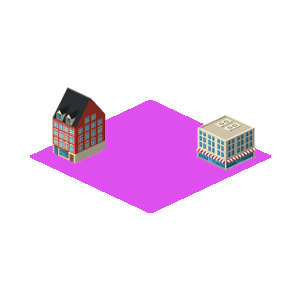
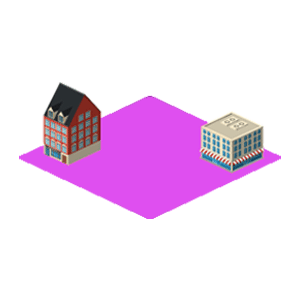
infomap_func finish
เหลือแก้รูป กับ ตกแต่งพื้นที่ให้สวย

Changed region(s): [[0.06, 0.27, 0.96, 0.75]]

diff --git a/Front-endSection/src/pages/home/home.js b/Front-endSection/src/pages/home/home.js
@@ -15,8 +15,11 @@ import rnp from '../../img/rnp.png';
 import jinda from '../../img/jinda.png';
 import nikom from '../../img/nikom.png';
 import kmitl from '../../img/kmitl.png';
-import shadow_s from '../../img/shadow.png';
-import shadow_L from '../../img/shadow-nikom.png';
+import shadow_fbt from '../../img/shadow-fbt.png';
+import shadow_rnp from '../../img/shadow-rnp.png';
+import shadow_keki from '../../img/shadow-keki.png';
+import shadow_jinda from '../../img/shadow-jinda.png';
+import shadow_nikom from '../../img/shadow-nikom.png';
 
 function Home() {
     const [activeBoxPrice, setActiveBoxPrice] = useState(false);
@@ -76,35 +79,25 @@ function Home() {
                 <div className="main_kmitl">
                     <img alt="" src={kmitl}></img>
                 </div>
-                <div className="zone_fbt_shad">
-                    <img alt="" src={shadow_s}></img>
+                <div className=" map-el zone_fbt">
+                    <img className="map-el-shadow zone_fbt_shd" alt="" src={shadow_fbt}></img>
+                    <img className="map-el-img zone_fbt_img" alt="" src={fbt}></img>
                     </div>
-                <div className="zone_fbt">
-                    <img alt="" src={fbt}></img>
+                <div className=" map-el zone_keki">
+                    <img className="map-el-shadow zone_keki_shd" alt="" src={shadow_keki}></img>
+                    <img className="map-el-img zone_keki_img" alt="" src={keki}></img>
                     </div>
-                <div className="zone_keki_shad">
-                    <img alt="" src={shadow_s}></img>
+                <div className=" map-el zone_rnp">
+                    <img className="map-el-shadow zone_rnp_shd" alt="" src={shadow_rnp}></img>
+                    <img className="map-el-img zone_rnp_img" alt="" src={rnp}></img>
                     </div>
-                <div className="zone_keki">
-                    <img alt="" src={keki}></img>
+                <div className=" map-el zone_jinda">
+                    <img className="map-el-shadow zone_jinda_shd" alt="" src={shadow_jinda}></img>
+                    <img className="map-el-img zone_jinda_img" alt="" src={jinda}></img>
                     </div>
-                <div className="zone_rnp_shad">
-                    <img alt="" src={shadow_s}></img>
-                    </div>
-                <div className="zone_rnp">
-                    <img alt="" src={rnp}></img>
-                    </div>
-                <div className="zone_jinda_shad">
-                    <img alt="" src={shadow_s}></img>
-                    </div>
-                <div className="zone_jinda">
-                    <img alt="" src={jinda}></img>
-                    </div>
-                <div className="zone_nikom_shad">
-                    <img alt="" src={shadow_L}></img>
-                    </div>
-                <div className="zone_nikom">
-                    <img alt="" src={nikom}></img>
+                <div className=" map-el zone_nikom">
+                    <img className="map-el-shadow zone_nikom_shd"alt="" src={shadow_nikom}></img>
+                    <img className="map-el-img zone_nikom_img"alt="" src={nikom}></img>
                     </div>
             </div>
             <div className="dom_list d-flex">

diff --git a/Front-endSection/src/pages/home/home.css b/Front-endSection/src/pages/home/home.css
@@ -130,6 +130,8 @@
     color: #325679;
 }
 
+/*--------------------------------*/
+
 .main_kmitl{
     position: absolute;
     left: calc(45vw);
@@ -140,82 +142,43 @@
     left: calc(55vw);
     top: calc(23vw);
 }
-.zone_fbt_shad{
-    position: absolute;
-    left: calc(56vw);
-    top: calc(24vw);
-}
 .zone_keki{
     position: absolute;
     left: calc(25vw);
     top: calc(6vw);
-}
-.zone_keki_shad{
-    position: absolute;
-    left: calc(26.5vw);
-    top: calc(8vw);
 }
 .zone_rnp{
     position: absolute;
     left: calc(9vw);
     top: calc(5vw);
 }
-.zone_rnp_shad{
-    position: absolute;
-    left: calc(10vw);
-    top: calc(6vw);
-}
 .zone_jinda{
     position: absolute;
     left: calc(29vw);
     top: calc(22vw);
-}
-.zone_jinda_shad{
-    position: absolute;
-    left: calc(30.5vw);
-    top: calc(24vw);
 }
 .zone_nikom{
     position: absolute;
     left: calc(75vw);
     top: calc(2vw);
 }
-.zone_nikom_shad{
-    position: absolute;
-    left: calc(75.5vw);
-    top: calc(4.5vw);
-}
 
 .main_kmitl img{
     width: 25vw;
 }
-.zone_fbt img{
-    width: 15vw;
+
+.map-el-shadow{
+    position: relative;
+    opacity: .7;
+    width: 15VW;
 }
-.zone_fbt_shad img{
-    width: 13vw;
+.map-el-img{
+    position: absolute;
+    width: 15.2vw;
+    left: 0;
+    top: -1px;
+    transition: .2s;
 }
-.zone_keki img{
-    width: 15vw;
-}
-.zone_keki_shad img{
-    width: 12vw;
-}
-.zone_rnp img{
-    width: 15vw;
-}
-.zone_rnp_shad img{
-    width: 13vw;
-}
-.zone_jinda img{
-    width: 16vw;
-}
-.zone_jinda_shad img{
-    width: 13vw;
-}
-.zone_nikom img{
-    width: 15vw;
-}
-.zone_nikom_shad img{
-    width: 13vw;
+.map-el:hover .map-el-img{
+    top: -15px;
 }
